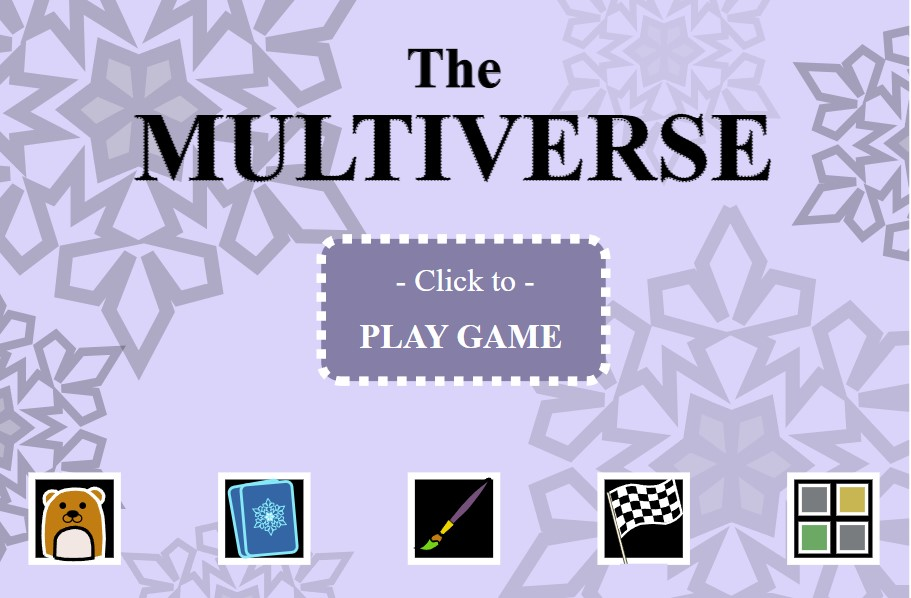
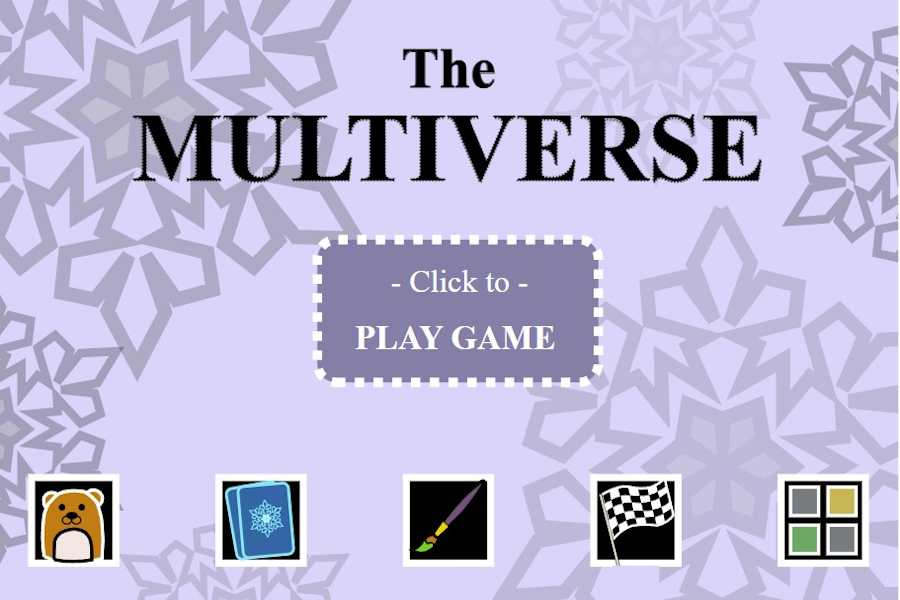
Fix image aspect ratio

diff --git a/index.html b/index.html
@@ -25,26 +25,16 @@
 			<div class="item">
 				<h2>Recycling Tracker</h2>
 
-				<div class="imageborder">
-					<img src="images/Tracker.jpg" alt="Recycling Tracker Picture">
-				</div>
+				<img src="images/Tracker.jpg" alt="Recycling Tracker Picture">
 				
 				<p>Website that tracks recycling progress to promote environmental awareness.
 					<b>2nd place winner</b> for hackathon!</p>
 
 				<div id="label-container">
-					<div>
-						HTML/CSS
-					</div>
-					<div>
-						Javascript
-					</div>
-					<div>
-						SQL
-					</div>
-					<div>
-						Flask
-					</div>
+					<div>HTML/CSS</div>
+					<div>Javascript</div>
+					<div>SQL</div>
+					<div>Flask</div>
 				</div>
 
 				<div class="button-container">
@@ -69,17 +59,13 @@
 			<div class="item">
 				<h2>The Multiverse</h2>
 
-				<div class="imageborder">
-					<img src="images/Multiverse.jpg" alt="The Multiverse Picture">
-				</div>
+				<img src="images/Multiverse.jpg" alt="The Multiverse Picture">
 
 				<p>A video game designed to detect Parkinson's disease. 
 				   It is filled with minigames inside a carnival!</p>
 
 				<div id="label-container">
-					<div>
-						Elm
-					</div>
+					<div>Elm</div>
 				</div>
 
 				<div class="button-container">
@@ -92,19 +78,13 @@
 			<div class="item">
 				<h2>Project Train</h2>
 
-				<div class="imageborder">
-					<img src="images/Train.png" alt="Train Game Picture">
-				</div>				
+				<img src="images/Train.png" alt="Train Game Picture">			
 
 				<p>A topdown 2D game where you try to travel as far as you can on a train!</p>
 
 				<div id="label-container">
-					<div>
-						GDScript
-					</div>
-					<div>
-						Godot
-					</div>
+					<div>GDScript</div>
+					<div>Godot</div>
 				</div>
 
 				<div class="button-container">

diff --git a/styles/styles.css b/styles/styles.css
@@ -92,18 +92,12 @@
     justify-content: space-between;
 }
 
-.projects .imageborder {
-    width: 300px;
-    height: 320px;
-    border: 2px solid black;
-    border-radius: 8px;
-    position: relative;
-    overflow: hidden;
-} /* Fit image in the border shape */
-
-.projects .imageborder img {
-    width: 100%;
-    height: 100%;
+.projects img {
+    max-width: 300px;
+    max-height: 200px;
+    border-radius: 25px;
+    width: auto;
+    height: auto;
     display: inline;
     margin: 0 auto;
 }
